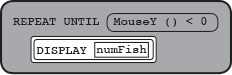
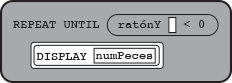
ESP - U1 "en el examen AP" pictures
(and an English pic fix)

diff --git a/cur/programming/1-introduction/3-drawing/4-modify-your-pinwheel.es.html b/cur/programming/1-introduction/3-drawing/4-modify-your-pinwheel.es.html
@@ -62,8 +62,9 @@
             </ol>
         </div>
 
-        <div class="examFullWidth">
-            <p>
+		<div class="examFullWidth">
+			<div class="ap-standard">AAP-3.C.1, AAP-2.K.2</div>
+			<div class="pseudop">
                 La definición del comando personalizado <code>molinete</code> que se muestra a continuación <br />
                 <img class="indent" src="/bjc-r/img/1-introduction/pinwheel-definition.es.png" alt="molinete, ramas: (número de ramas)
 {
@@ -83,21 +84,36 @@
     }
 }" /><br />
                 se escribe en inglés con la siguiente notación<br />
-                <div class="ap-standard">AAP-3.C.1, AAP-2.K.2</div>
-                <pre>
+                <div class="pre-container indent"><pre>
 PROCEDURE molinete(numeroDeRamas)
 {
     REPEAT numeroDeRamas TIMES
     {
-        MOVE_FORWARD(100)
-        MOVE_FORWARD(-37)
+        mover(100)
+        mover(-37)
         girar_sentidodelreloj(360 / numeroDeRamas)
     }
-}</pre>
-            </p>
+}</pre></div> or <img class="inline" src="/bjc-r/img/1-introduction/pinwheel-blocktran-definition.es.png" alt="PROCEDURE molinete(numeroDeRamas)
+{
+    REPEAT numeroDeRamas TIMES
+    {
+        mover(100)
+        mover(-37)
+        girar_sentidodelreloj(360 / numeroDeRamas)
+    }
+}" title="PROCEDURE molinete(numeroDeRamas)
+{
+    REPEAT numeroDeRamas TIMES
+    {
+        mover(100)
+        mover(-37)
+        girar_sentidodelreloj(360 / numeroDeRamas)
+    }
+}" />
+            </div>
             <div class="endnote">
                 <div class="pseudop">Los procedimientos <pre class="inline">mover()</pre> y <pre class="inline">girar_sentidodelreloj()</pre> no forman parte del lenguaje AP, por lo que están escrito en minúsculas, de la misma forma que otros procedimientos definidos por el programador.</div>
-            <div class="pseudop">Ten en cuenta que el bloque sombrero, <img class="inline nopadtb" src="/bjc-r/img/1-introduction/pinwheel-hat-block.es.png" alt="molinillo, ramas: (número de ramas)" title="molinillo, ramas: (número de ramas)" />, se escribiría como <pre class="inline">PROCEDURE molinillo(númeroderamas)</pre>. La palabra <pre class="inline">procedure</pre> (procedimiento) te indica que la línea de código es como un bloque sombrero; el nombre de la variable entre paréntesis en esa línea es la entrada que toma el procedimiento.</div>
+            <div class="pseudop">Ten en cuenta que el bloque sombrero, <img class="inline nopadtb" src="/bjc-r/img/1-introduction/pinwheel-hat-block.es.png" alt="molinillo, ramas: (número de ramas)" title="molinillo, ramas: (número de ramas)" />, se escribiría como <pre class="inline">PROCEDURE molinete(numeroDeRamas)</pre>. La palabra <pre class="inline">procedure</pre> (procedimiento) te indica que la línea de código es como un bloque sombrero; el nombre de la variable entre paréntesis en esa línea es la entrada que toma el procedimiento.</div>
             </div>
         </div>
 
@@ -140,7 +156,7 @@ PROCEDURE molinete(numeroDeRamas)
 
         <div class="examFullWidth">
             <div class="ap-standard">AAP-3.A.5</div>
-            <div class="pseudop">La siguiente instrucción <img class="inline" src="/bjc-r/img/1-introduction/U1ImageVideoAddendum_img/U1L3-PinwheelwithInputs1.es.png"  height="50" alt="setup; molinete, branches: (6) size: (80) respaldo: (20)" title=" molinete, branches: (6) size: (80) respaldo: (20)" /> tendría la siguiente notación <pre class="inline">molinete(6, 80, 20)</pre> o <img class="nopadtb" src="/bjc-r/img/2-complexity/pinwheel-blocktran.png" alt="un rectángulo blanco que contiene la palabra 'PINWHEEL' (molinete) en mayúsculas seguida de un rectángulo más pequeño que contiene las entradas'6, 80, 20'" title="un rectángulo blanco que contiene la palabra 'PINWHEEL' (molinete) en mayúsculas seguida de un rectángulo más pequeño que contiene las entradas'6, 80, 20'" />.</div>
+            <div class="pseudop">La siguiente instrucción <img class="inline" src="/bjc-r/img/1-introduction/U1ImageVideoAddendum_img/U1L3-PinwheelwithInputs1.es.png"  height="50" alt="setup; molinete, branches: (6) size: (80) respaldo: (20)" title=" molinete, branches: (6) size: (80) respaldo: (20)" /> tendría la siguiente notación <pre class="inline">molinete(6, 80, 20)</pre> o <img class="nopadtb" src="/bjc-r/img/1-introduction/pinwheel-blocktran.es.png" alt="un rectángulo blanco que contiene la palabra 'PINWHEEL' (molinete) en mayúsculas seguida de un rectángulo más pequeño que contiene las entradas'6, 80, 20'" title="un rectángulo blanco que contiene la palabra 'PINWHEEL' (molinete) en mayúsculas seguida de un rectángulo más pequeño que contiene las entradas'6, 80, 20'" />.</div>
             <p>Posiblemente has escuchado que algunas personas utilizan el término "pseudocódigo" para referirse a este pseudo-lenguaje usado en el examen de principios AP CS, pero esto <em>no</em> es pseudocódigo. El pseudocódigo no es un lenguaje de programación, se usa cómo un lenguaje humano natural para describir un algoritmo.</p>
         </div>
 

diff --git a/cur/programming/summaries/exam1.html b/cur/programming/summaries/exam1.html
@@ -81,7 +81,7 @@ PROCEDURE pinwheel(numberOfBranches)
         move(-37)
         turn_clockwise(360 / numberOfBranches)
     }
-}</pre></div> or <img class="inline" src="/bjc-r/img/1-introduction/pinwheel-blocktran.png" alt="PROCEDURE pinwheel(numberOfBranches)
+}</pre></div> or <img class="inline" src="/bjc-r/img/1-introduction/pinwheel-blocktran-definition.png" alt="PROCEDURE pinwheel(numberOfBranches)
 {
     REPEAT numberOfBranches TIMES
     {
@@ -106,7 +106,7 @@ PROCEDURE pinwheel(numberOfBranches)
         </div>
 <div class="examSummary" ><strong> <a href="/bjc-r/cur/programming/1-introduction/3-drawing/4-modify-your-pinwheel.html?topic=nyc_bjc/1-intro-loops.topic&course=bjc4nyc.html&novideo&noassignment" title="/bjc-r/cur/programming/1-introduction/3-drawing/4-modify-your-pinwheel.html">1.3.4</a></strong>
             <div class="ap-standard">AAP-3.A.5</div>
-            <div class="pseudop">This instruction <img class="inline" src="/bjc-r/img/1-introduction/U1ImageVideoAddendum_img/U1L3-PinwheelwithInputs1.png"  height="50" alt="setup; pinwheel, branches: (6) size: (80) backup: (20)" title=" pinwheel, branches: (6) size: (80) backup: (20)" /> would be written as <pre class="inline">Pinwheel(6, 80, 20)</pre> or <img class="nopadtb" src="/bjc-r/img/2-complexity/pinwheel-blocktran.png" alt="a white rounded rectangle containing first the word 'PINWHEEL' in all caps and then a smaller white rectangle containing the inputs '6, 80, 20'" title="a white rounded rectangle containing first the word 'PINWHEEL' in all caps and then a smaller white rectangle containing the inputs '6, 80, 20'" />.</div>
+            <div class="pseudop">This instruction <img class="inline" src="/bjc-r/img/1-introduction/U1ImageVideoAddendum_img/U1L3-PinwheelwithInputs1.png"  height="50" alt="setup; pinwheel, branches: (6) size: (80) backup: (20)" title=" pinwheel, branches: (6) size: (80) backup: (20)" /> would be written as <pre class="inline">Pinwheel(6, 80, 20)</pre> or <img class="nopadtb" src="/bjc-r/img/1-introduction/pinwheel-blocktran.png" alt="a white rounded rectangle containing first the word 'PINWHEEL' in all caps and then a smaller white rectangle containing the inputs '6, 80, 20'" title="a white rounded rectangle containing first the word 'PINWHEEL' in all caps and then a smaller white rectangle containing the inputs '6, 80, 20'" />.</div>
             <p>You may hear people use the term "pseudocode" to refer to this pseudo-language used on the AP CS Principles exam, but it's <em>not</em> pseudocode. Pseudocode isn't a programming language at all, it's the use of normal human language to describe an algorithm.</p>
         </div>
 <h3>Lab 5: Follow the Leader</h3>

diff --git a/cur/programming/1-introduction/5-follow-the-leader/2-sprite-interaction.es.html b/cur/programming/1-introduction/5-follow-the-leader/2-sprite-interaction.es.html
@@ -70,15 +70,14 @@ repetir hasta (tocando (Líder)?)
         <div class="examFullWidth">
             <div class="ap-standard">AAP-2.K.3</div>
             <div class="sidenoteBig">
-                <div class="pseudop">El lenguaje utilizado en el examen AP no permite espacios en los nombres de las entradas (como <var>número de peces</var>) o en los procedimientos definidos por el programador (como <code>ratón y</code>, que no está integrado en su idioma). Así que este ejemplo los traduce a <pre class="inline">numPeces</pre> y <pre class="inline">RatónY()</pre>.</div>
-                <div class="pseudop">El motivo de incluir <pre class="inline">()</pre> o un cuadro después de <pre class="inline">RatónY</pre> se debe a que <pre class="inline">RatónY()</pre > es una llamada de procedimiento a pesar de que no toma ninguna entrada. </div>
+                <div class="pseudop">El lenguaje utilizado en el examen AP no permite espacios en los nombres de las entradas (como <var>número de peces</var>) o en los procedimientos definidos por el programador (como <code>ratón y</code>, que no está integrado en su idioma). Así que este ejemplo los traduce a <pre class="inline">numPeces</pre> y <pre class="inline">ratónY()</pre>.</div>
+                <div class="pseudop">El motivo de incluir <pre class="inline">()</pre> o un cuadro después de <pre class="inline">ratónY</pre> se debe a que <pre class="inline">ratónY()</pre > es una llamada de procedimiento a pesar de que no toma ninguna entrada. </div>
             </div>
             <p>
                 El guion<br/>
                 <img class="indent" src="/bjc-r/img/1-introduction/example-repeat-until.es.png" alt="repetir hasta que (ratón y < 0) {decir (número de peces)}" title="repetir hasta que (ratón y < 0) {decir (número de peces)}" /><br />
                 se escribiría como<br />
-            <div class="commentBig">I worry that the mouse Y procedure call block formatting might be wrong because we don't yet know what the correct APblocktran form of a procedure call will be. Waiting for the new exam reference sheet. --MF, 3/1/19<p>TODO: change mouseY() to camelCase <em>and</em> edit image to use a box instead of () after mouseY. --MF, 8/27/19</p></div>
-                <div class="pre-container indent"><pre>REPEAT UNTIL (RatónY() &lt; 0)
+                <div class="pre-container indent"><pre>REPEAT UNTIL (ratónY() &lt; 0)
 {
     DISPLAY(numPeces)
 }</pre></div>

diff --git a/cur/programming/1-introduction/3-drawing/4-modify-your-pinwheel.html b/cur/programming/1-introduction/3-drawing/4-modify-your-pinwheel.html
@@ -100,7 +100,7 @@ PROCEDURE pinwheel(numberOfBranches)
         move(-37)
         turn_clockwise(360 / numberOfBranches)
     }
-}</pre></div> or <img class="inline" src="/bjc-r/img/1-introduction/pinwheel-blocktran.png" alt="PROCEDURE pinwheel(numberOfBranches)
+}</pre></div> or <img class="inline" src="/bjc-r/img/1-introduction/pinwheel-blocktran-definition.png" alt="PROCEDURE pinwheel(numberOfBranches)
 {
     REPEAT numberOfBranches TIMES
     {
@@ -174,7 +174,7 @@ PROCEDURE pinwheel(numberOfBranches)
 
         <div class="examFullWidth">
             <div class="ap-standard">AAP-3.A.5</div>
-            <div class="pseudop">This instruction <img class="inline" src="/bjc-r/img/1-introduction/U1ImageVideoAddendum_img/U1L3-PinwheelwithInputs1.png"  height="50" alt="setup; pinwheel, branches: (6) size: (80) backup: (20)" title=" pinwheel, branches: (6) size: (80) backup: (20)" /> would be written as <pre class="inline">Pinwheel(6, 80, 20)</pre> or <img class="nopadtb" src="/bjc-r/img/2-complexity/pinwheel-blocktran.png" alt="a white rounded rectangle containing first the word 'PINWHEEL' in all caps and then a smaller white rectangle containing the inputs '6, 80, 20'" title="a white rounded rectangle containing first the word 'PINWHEEL' in all caps and then a smaller white rectangle containing the inputs '6, 80, 20'" />.</div>
+            <div class="pseudop">This instruction <img class="inline" src="/bjc-r/img/1-introduction/U1ImageVideoAddendum_img/U1L3-PinwheelwithInputs1.png"  height="50" alt="setup; pinwheel, branches: (6) size: (80) backup: (20)" title=" pinwheel, branches: (6) size: (80) backup: (20)" /> would be written as <pre class="inline">Pinwheel(6, 80, 20)</pre> or <img class="nopadtb" src="/bjc-r/img/1-introduction/pinwheel-blocktran.png" alt="a white rounded rectangle containing first the word 'PINWHEEL' in all caps and then a smaller white rectangle containing the inputs '6, 80, 20'" title="a white rounded rectangle containing first the word 'PINWHEEL' in all caps and then a smaller white rectangle containing the inputs '6, 80, 20'" />.</div>
             <p>You may hear people use the term "pseudocode" to refer to this pseudo-language used on the AP CS Principles exam, but it's <em>not</em> pseudocode. Pseudocode isn't a programming language at all, it's the use of normal human language to describe an algorithm.</p>
         </div>
 

diff --git a/cur/programming/1-introduction/3-drawing/semi-old/4-modify-your-pinwheel.html b/cur/programming/1-introduction/3-drawing/semi-old/4-modify-your-pinwheel.html
@@ -140,7 +140,7 @@ PROCEDURE pinwheel(numberOfBranches)
                 <div class="todo">From Dan: "mini-lesson on "input sliders" when showing how to make "pinwheel, branches" with "backup"." BH suggests a hinted yellow box here with link: "You can add a slider (with image showing) to watch what happens as you adjust an input." --MF, 4/9/19</div>
                 <div class="examFullWidth">
                     <div class="ap-standard">(AAP-)3.A.5</div>
-                    <div class="pseudop">This instruction <img class="inline" src="/bjc-r/img/1-introduction/U1ImageVideoAddendum_img/U1L3-PinwheelwithInputs1.png"  height="50" alt="setup; pinwheel, branches: (6) size: (80) backup: (20)" title=" pinwheel, branches: (6) size: (80) backup: (20)" /> would be written as <pre class="inline">Pinwheel(6, 80, 20)</pre> or <img class="nopadtb" src="/bjc-r/img/2-complexity/pinwheel-blocktran.png" alt="a white rounded rectangle containing first the word 'PINWHEEL' in all caps and then a smaller white rectangle containing the inputs '6, 80, 20'" title="a white rounded rectangle containing first the word 'PINWHEEL' in all caps and then a smaller white rectangle containing the inputs '6, 80, 20'" />.</div>
+                    <div class="pseudop">This instruction <img class="inline" src="/bjc-r/img/1-introduction/U1ImageVideoAddendum_img/U1L3-PinwheelwithInputs1.png"  height="50" alt="setup; pinwheel, branches: (6) size: (80) backup: (20)" title=" pinwheel, branches: (6) size: (80) backup: (20)" /> would be written as <pre class="inline">Pinwheel(6, 80, 20)</pre> or <img class="nopadtb" src="/bjc-r/img/1-introduction/pinwheel-blocktran.png" alt="a white rounded rectangle containing first the word 'PINWHEEL' in all caps and then a smaller white rectangle containing the inputs '6, 80, 20'" title="a white rounded rectangle containing first the word 'PINWHEEL' in all caps and then a smaller white rectangle containing the inputs '6, 80, 20'" />.</div>
                     <div class="todo">There isn't a block example for calling a procedure in the last exam reference sheet. This is our best guess for now and needs to be revisited. --MF, 3/1/19</div>
                     <div class="todo">Brian, do you want to add a remark about parameter labels and how much easier that makes things? --MF, 8/9/19</div>
                 </div>

diff --git a/cur/programming/1-introduction/2-gossip-and-greet/4-making-a-new-block.es.html b/cur/programming/1-introduction/2-gossip-and-greet/4-making-a-new-block.es.html
@@ -92,14 +92,20 @@
 }" title="doble número
 {
     reportar (2 * x (número))
-}" /> estará escrito de la siguiente forma <div class="pre-container"><pre class="inline">PROCEDURE double(x)
+}" /> estará escrito de la siguiente forma <div class="pre-container"><pre class="inline">PROCEDURE doble(x)
 {
     RETURN(2 * x)
-}</pre></div>.
+}</pre></div> o <img class="" src="/bjc-r/img/1-introduction/double-blocktran.es.png" alt="PROCEDURE doble(x)
+{
+    RETURN(2 * x)
+}" title="PROCEDURE doble(x)
+{
+    RETURN(2 * x)
+}" />.
                     <p>Varios lenguajes de programación (y la notación del AP CS Principles Exam) usan la palabra <code>return</code> en lugar de <code>report</code> (reportar) para representar el comando para retornar un valor al final de la llamada de una función.</p>
                 </li>
                 <div class="ap-standard">AAP-3.A.9</div>
-                <li>Se utiliza el término "valor de un procedimiento" para representar el valor de retorno cuando el mismo es llamado. Por ejemplo, "el valor de <pre class="inline">double(5)</pre>" (duplicar(5)) es 10.</li>
+                <li>Se utiliza el término "valor de un procedimiento" para representar el valor de retorno cuando el mismo es llamado. Por ejemplo, "el valor de <pre class="inline">doble(5)</pre>" es 10.</li>
             </ul>
         </div>
 
